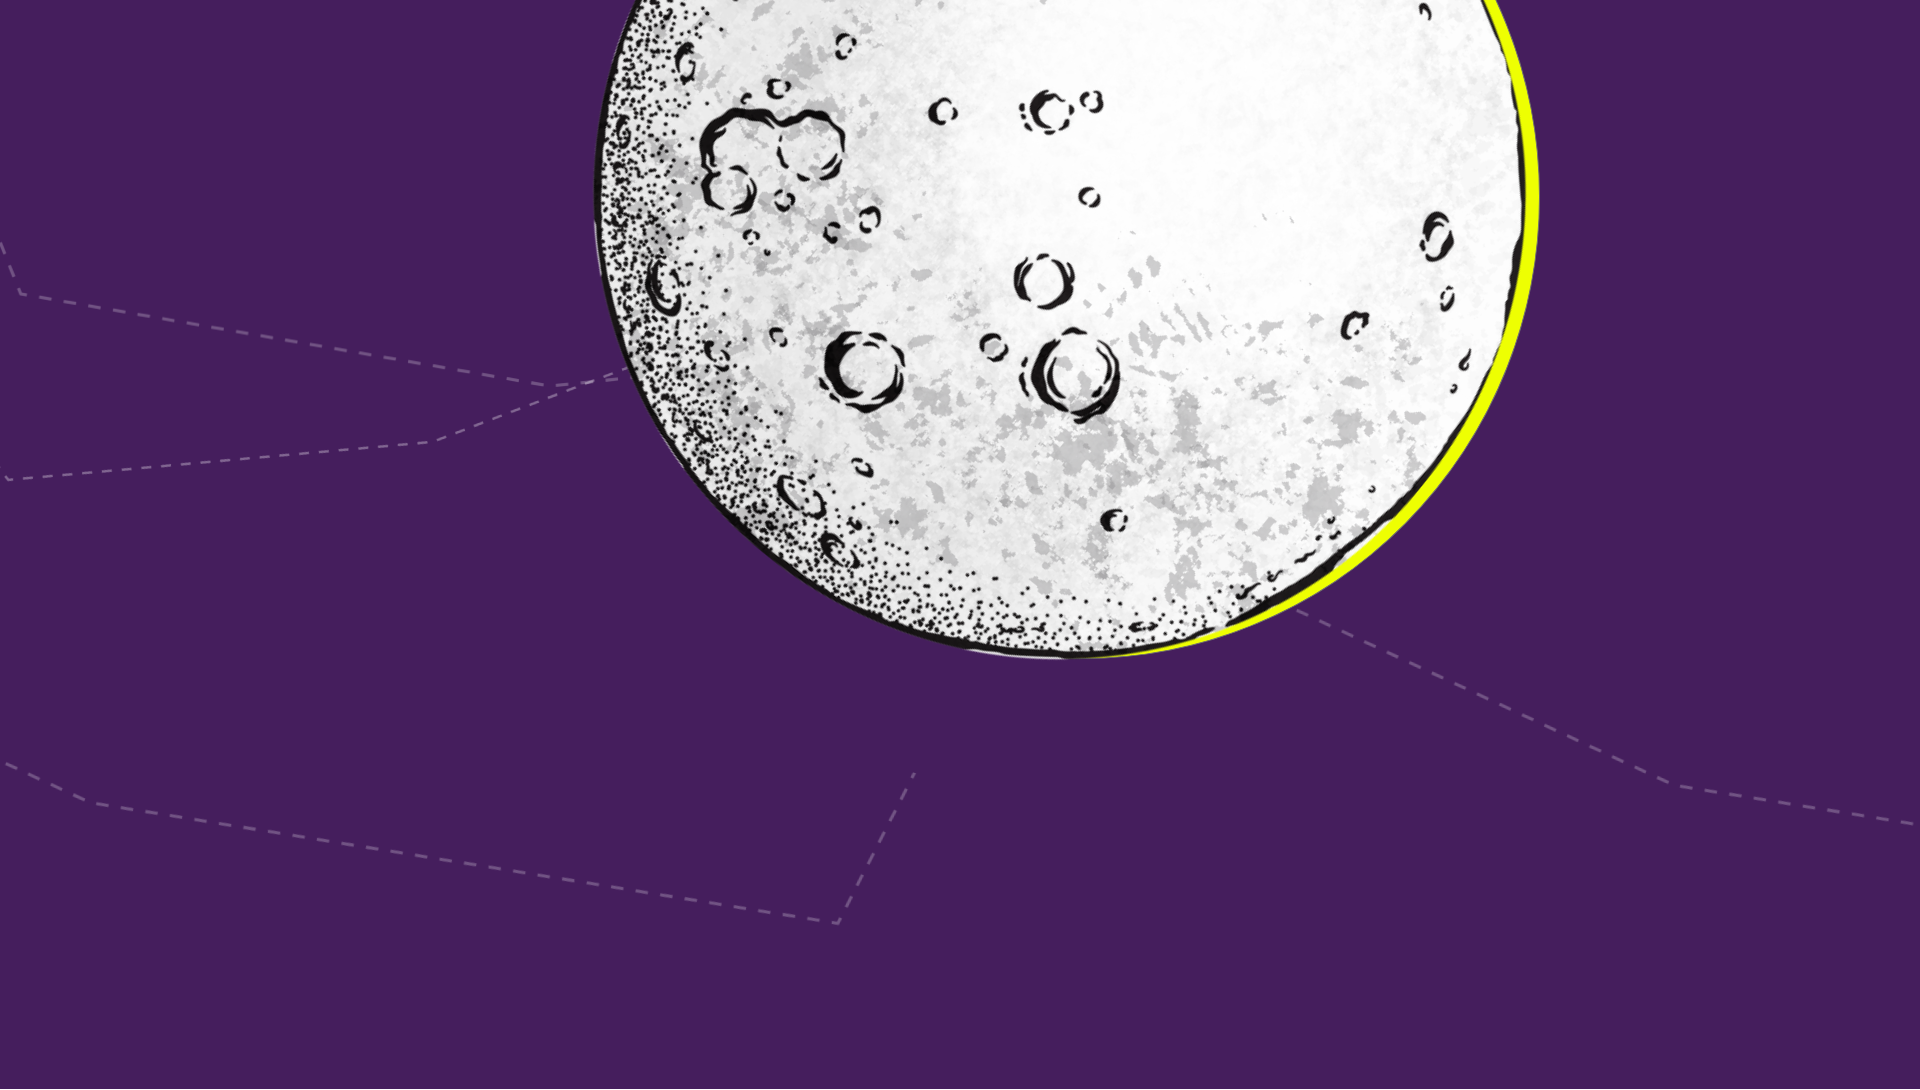
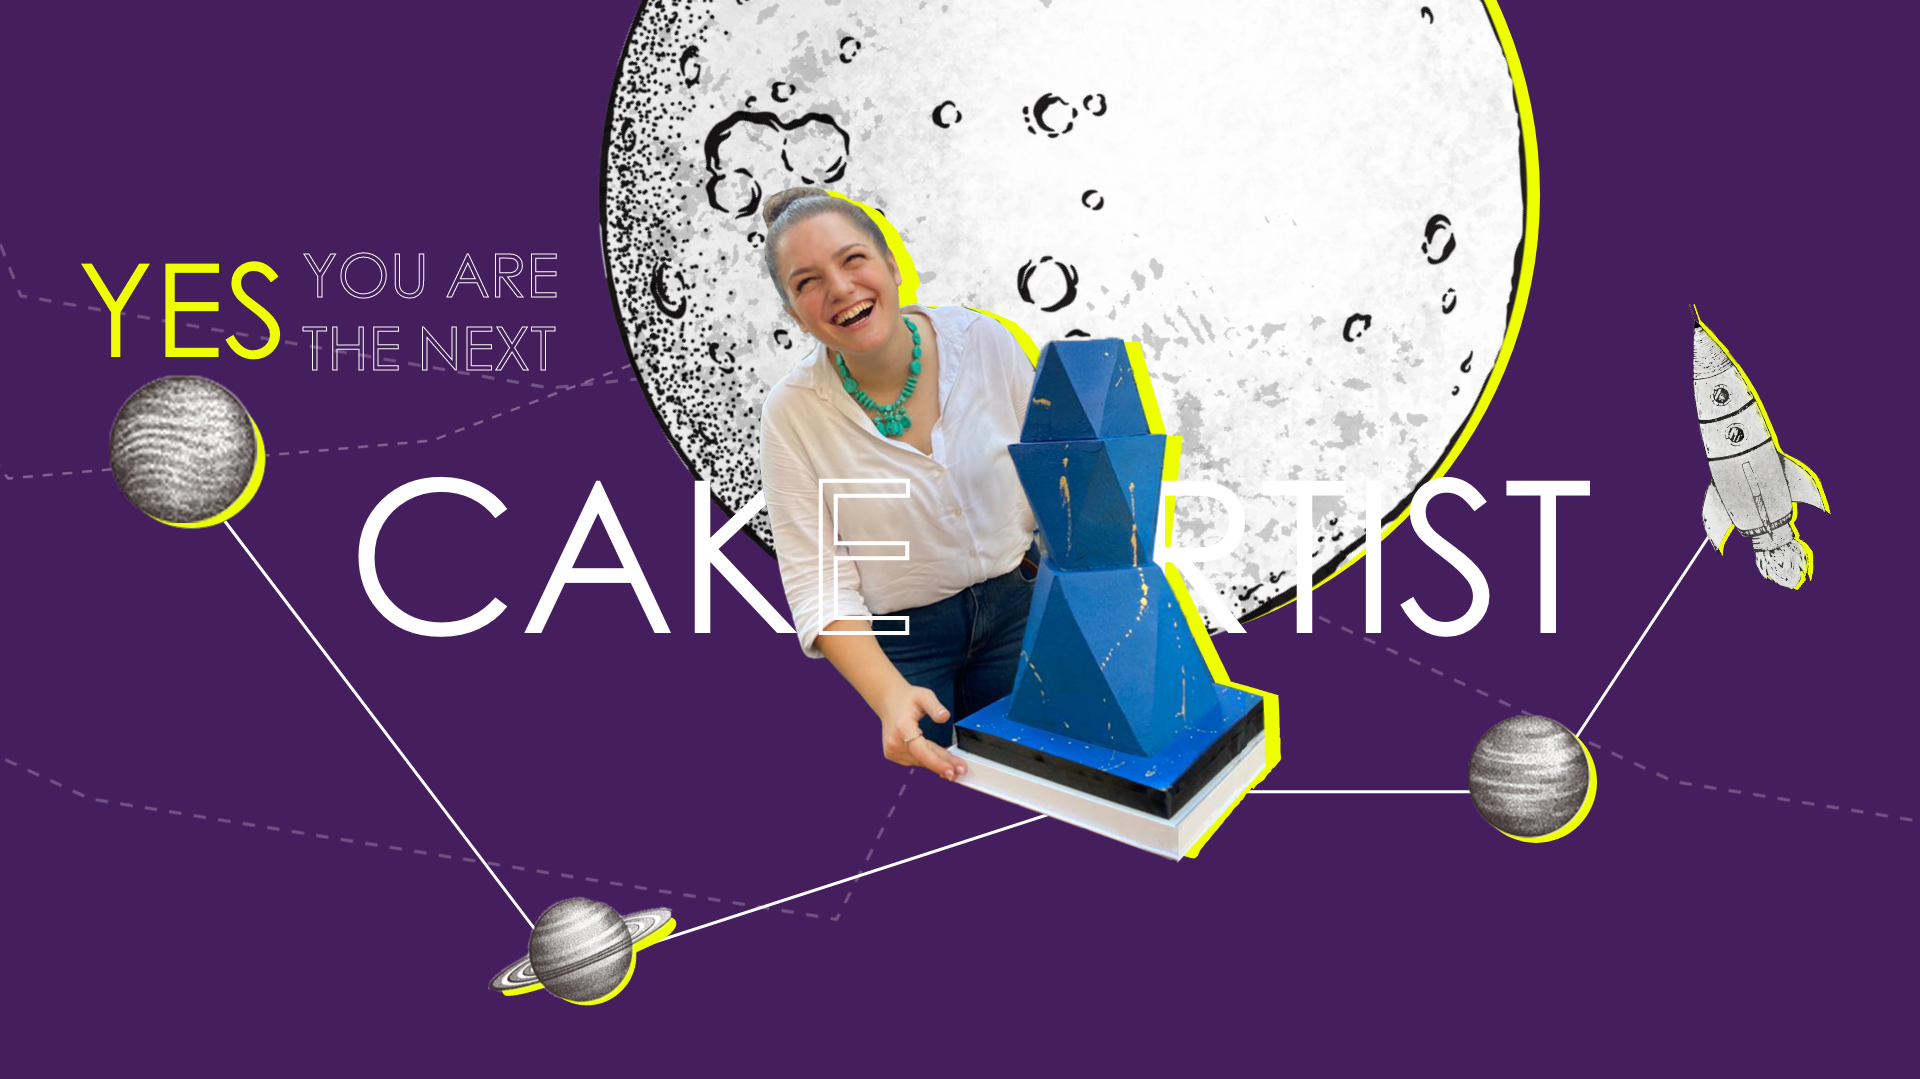
homepage design done

diff --git a/src/components/globalComponents/Footer.jsx b/src/components/globalComponents/Footer.jsx
@@ -1,0 +1,149 @@
+import React from "react";
+import styled from "styled-components";
+import CakyzanaFooterLogo from "../../designAssets/Footer/CakyzanaFooterLogo.png";
+import { CONSTANTS } from "../../global";
+import Facebook from "../../designAssets/Footer/FacebookFooterLogo.png";
+import Tiktok from "../../designAssets/Footer/TiktokFooterLogo.png";
+import Instagram from "../../designAssets/Footer/InstagramFooterLogo.png";
+import Youtube from "../../designAssets/Footer/YoutubeFooterLogo.png";
+import LinkedIn from "../../designAssets/Footer/LinkedInFooterLogo.png";
+
+function Footer() {
+  return (
+    <FooterContainer>
+      <FooterContent>
+        <FooterFlexChild>
+          <LogoContainer>
+            <FooterLogo src={CakyzanaFooterLogo} />
+          </LogoContainer>
+        </FooterFlexChild>
+        <FooterFlexChild>
+          <FooterChildContent>
+            <FooterChildTitle>Menu</FooterChildTitle>
+            <FooterNavLinksContainer>
+              <FooterNavLink>Classes</FooterNavLink>
+              <FooterNavLink>Utensils</FooterNavLink>
+              <FooterNavLink>Tips & Tricks</FooterNavLink>
+              <FooterNavLink>Log In/ Sign Up</FooterNavLink>
+            </FooterNavLinksContainer>
+          </FooterChildContent>
+        </FooterFlexChild>
+        <FooterFlexChild>
+          <FooterChildContent>
+            <FooterChildTitle>Follow Us</FooterChildTitle>
+            <FooterSocialsContainer>
+              <FooterSocialsItem>
+                <FooterSocialsIcon data-name="facebook" src={Facebook} />
+              </FooterSocialsItem>
+              <FooterSocialsItem>
+                <FooterSocialsIcon src={Tiktok} />
+              </FooterSocialsItem>
+              <FooterSocialsItem>
+                <FooterSocialsIcon src={Instagram} />
+              </FooterSocialsItem>
+              <FooterSocialsItem>
+                <FooterSocialsIcon src={Youtube} />
+              </FooterSocialsItem>
+              <FooterSocialsItem>
+                <FooterSocialsIcon src={LinkedIn} />
+              </FooterSocialsItem>
+            </FooterSocialsContainer>
+          </FooterChildContent>
+        </FooterFlexChild>
+        <FooterFlexChild>
+          <FooterChildContent>
+            <FooterChildTitle>Subscribe to our newsletter</FooterChildTitle>
+            <NewsletterInput type="text" placeholder="Enter your email here" />
+          </FooterChildContent>
+        </FooterFlexChild>
+      </FooterContent>
+    </FooterContainer>
+  );
+}
+
+export default Footer;
+
+const FooterContainer = styled.footer`
+  height: 300px;
+  width: 100%;
+  display: flex;
+  justify-content: center;
+  background-color: ${CONSTANTS.purpleActive};
+`;
+
+const FooterContent = styled.div`
+  height: 100%;
+  width: 87%;
+  display: flex;
+`;
+
+const FooterFlexChild = styled.div`
+  height: 100%;
+  width: 25%;
+  display: flex;
+
+  justify-content: center;
+  align-items: center;
+`;
+
+const FooterChildContent = styled.div`
+  display: flex;
+  flex-direction: column;
+  align-items: flex-start;
+`;
+
+const LogoContainer = styled.div``;
+
+const FooterLogo = styled.img``;
+
+const FooterChildTitle = styled.h3`
+  font-size: 1.65rem;
+  color: white;
+  margin-bottom: 13px;
+`;
+
+const FooterNavLinksContainer = styled.ul`
+  display: flex;
+  flex-direction: column;
+  align-items: flex-start;
+`;
+
+const FooterNavLink = styled.li`
+  list-style: none;
+  font-size: 1.25rem;
+  color: white;
+`;
+
+const FooterSocialsContainer = styled.ul`
+  display: flex;
+  justify-content: flex-start;
+`;
+
+const FooterSocialsItem = styled.li`
+  list-style: none;
+  color: white;
+  margin: 0;
+  height: 40px;
+  width: 40px;
+`;
+
+const FooterSocialsIcon = styled.img`
+  height: 100%;
+  width: 100%;
+  object-fit: cover;
+  transform: translateX(-60%);
+
+  &[data-name="facebook"] {
+    transform: translateX(-30%);
+  }
+`;
+
+const NewsletterInput = styled.input`
+  height: 50px;
+  width: 100%;
+  border-radius: 9999px;
+  border: none;
+  outline: none;
+  padding-left: 10%;
+  padding-top: 3%;
+`;

diff --git a/src/components/globalComponents/Navbar.jsx b/src/components/globalComponents/Navbar.jsx
@@ -11,12 +11,13 @@ function Navbar() {
       </LogoContainer>
       <NavLinksContainer>
         <NavLink>Home</NavLink>
-        <NavLink>lorem</NavLink>
-        <NavLink>lorem</NavLink>
-        <NavLink>lorem</NavLink>
-        <NavLink>lorem</NavLink>
-        <NavLink>lorem</NavLink>
-        <NavLink>lorem</NavLink>
+        <NavLink>Classes</NavLink>
+        <NavLink>Utensils</NavLink>
+        <NavLink className="white">Educate</NavLink>
+        <NavLink className="white">LogIn</NavLink>
+        <NavLink className="white">
+          <Img src={cartIcon} alt="cart icon"/>
+        </NavLink>
       </NavLinksContainer>
     </Header>
   );
@@ -26,7 +27,7 @@ export default Navbar;
 
 const Header = styled.header`
   height: 70px;
-  width: 85%;
+  width: 87%;
   position: absolute;
   top: 20px;
   left: 50%;
@@ -57,6 +58,16 @@ const NavLinksContainer = styled.ul`
 `;
 
 const NavLink = styled.li`
-  font-size: 1.25rem;
+  font-size: 1rem;
   list-style: none;
+
+  &.white{
+    color: white;
+  }
 `;
+
+const Img = styled.img`
+  height: 75%;
+  width: 75%;
+  object-fit: contain;
+`

diff --git a/src/components/Homepage/Landing/Landing.jsx b/src/components/Homepage/Landing/Landing.jsx
@@ -9,7 +9,7 @@ function Landing() {
   return (
     <LandingSection>
       <Navbar />
-
+      <Image src={MaskGroup3}/>
     </LandingSection>
   );
 }
@@ -17,8 +17,14 @@ function Landing() {
 export default Landing;
 
 const LandingSection = styled(FullScreenSection)`
-  background-image: url(${MaskGroup3});
+  /* background-image: url(${MaskGroup3});
   background-size: cover;
   background-repeat: no-repeat;
-  background-color: ${CONSTANTS.purpleActive};
+  background-color: ${CONSTANTS.purpleActive}; */
 `;
+
+const Image = styled.img`
+  height: 100%;
+  width: 100%;
+  object-fit: cover;
+`

diff --git a/src/components/Homepage/Home.jsx b/src/components/Homepage/Home.jsx
@@ -4,6 +4,7 @@ import EntrepreneursJourney from './EntrepreneursJourney';
 import Landing from './Landing/Landing';
 import ThisMonth from './ThisMonth/ThisMonth';
 import TheStars from './TheStars/TheStars';
+import Footer from '../globalComponents/Footer';
 function Home() {
   return (
     <>
@@ -13,6 +14,7 @@ function Home() {
         <TheStars />
         <EntrepreneursJourney /> 
         <EducateSection/>
+        <Footer />
     </>
   )
 }

diff --git a/src/components/Homepage/TheStars/TheStars.jsx b/src/components/Homepage/TheStars/TheStars.jsx
@@ -10,9 +10,9 @@ function EducateSection() {
       <EngArTitle
         english={"The Stars"}
         arabic={"محبوبين الجماهير"}
-        bottom={"-75%"}
-        right={"-100%"}
-        arColor={CONSTANTS.pink}
+        bottom={"-50%"}
+        right={"-152%"}
+        arColor={CONSTANTS.blue}
       />
       <ContentDiv>
         <Card classTitle="Canvas Your Cake" classDur="75" price="40"/>

diff --git a/src/global.js b/src/global.js
@@ -22,7 +22,7 @@ export const FullScreenSection = styled.section`
 
 export const ContentContainer = styled.div`
   height: 100%;
-  width: 85%; //width 85% to match the grid of the XD file
+  width: 87%; //width 85% to match the grid of the XD file
   /* background-color: blue; */
 `;
 

diff --git a/src/index.css b/src/index.css
@@ -5,6 +5,11 @@
   font-family: 'Century Gothic', sans-serif;
 }
 
+::placeholder {
+  opacity: 0.4;
+  font-size: 1.4rem;
+}
+
 /* *[lang=ar]{
   font-family: 'Dima';
 }
